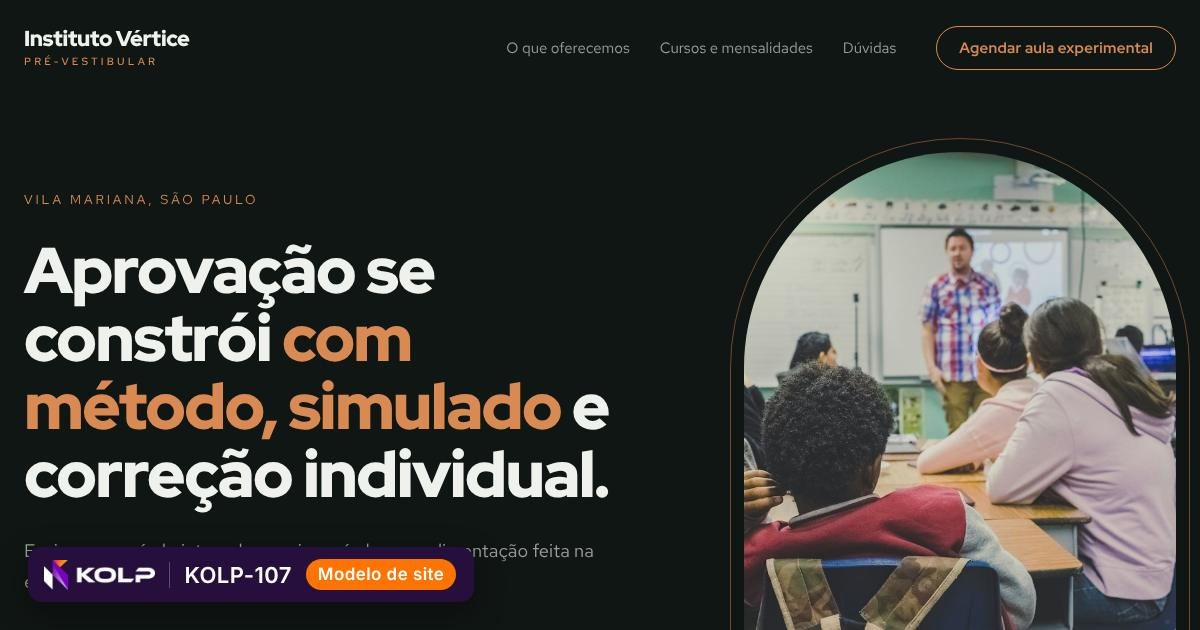
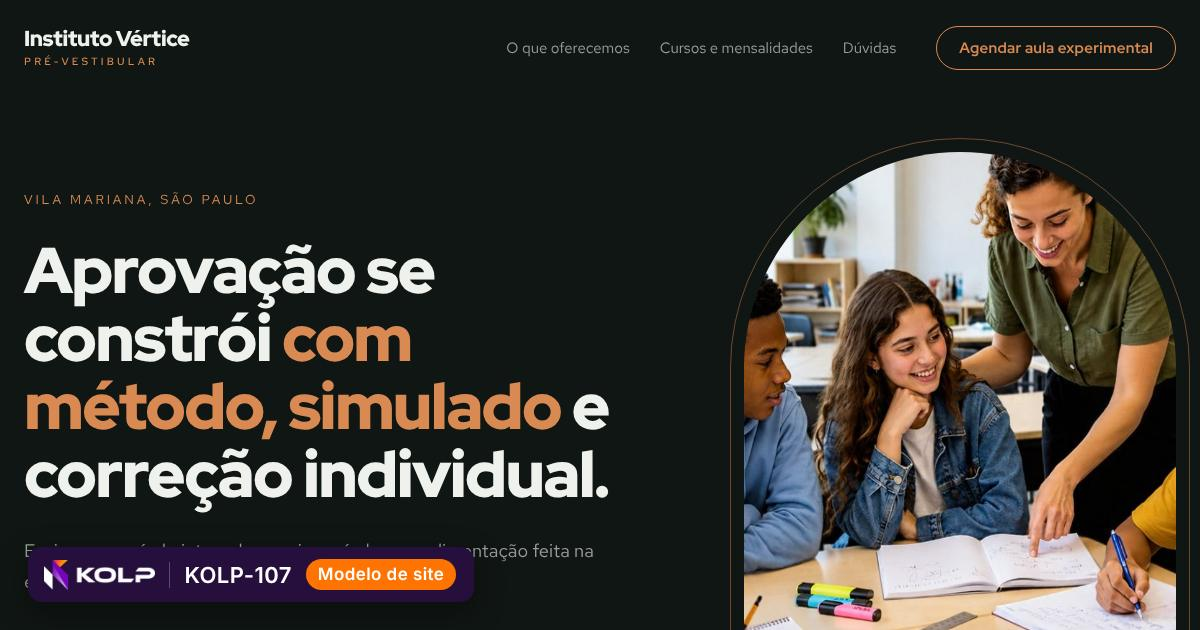
Bring educacao to 10 photos
Claude-Session: https://claude.ai/code/session_0151Yi9K8yWSyYvoKWm1KgPz

Changed region(s): [[0.6167, 0.2413, 0.9867, 1.0]]

diff --git a/kolp-modelos/demo/educacao-07/index.html b/kolp-modelos/demo/educacao-07/index.html
@@ -35,7 +35,7 @@
       <p class="lide">Ensino em período integral ou meio período, com alimentação feita na escola e atividades de arte, esporte e música.</p>
       <div class="acoes"><a class="botao" href="#contato">Agendar aula experimental</a><a class="elo" href="#servicos">Ver cursos e mensalidades</a></div>
     </div>
-    <figure class="arco"><img src="../../fotos/educacao/1.jpg" alt="" width="1400" height="930"><figcaption>Desde 2006</figcaption></figure>
+    <figure class="arco"><img src="../../fotos/educacao/7.jpg" alt="" width="1400" height="930"><figcaption>Desde 2006</figcaption></figure>
   </div>
   <div class="largura"><dl class="indices"><div><dd>18</dd><dt>anos de escola</dt></div><div><dd>84%</dd><dt>de aprovação em universidades públicas ou com bolsa</dt></div><div><dd>18</dd><dt>alunos por turma, no máximo</dt></div><div><dd>640</dd><dt>alunos matriculados</dt></div></dl></div>
   </section>
@@ -43,7 +43,7 @@
     <header class="topo rev"><h2>O que oferecemos</h2><p>Da educação infantil à preparação para o vestibular.</p></header>
     <ol class="cartoes"><li class="rev"><h3>Educação infantil</h3><p>De 2 a 5 anos, com projetos, brincadeira dirigida e adaptação acompanhada.</p></li><li class="rev"><h3>Ensino fundamental</h3><p>Do 1º ao 9º ano, com inglês diário e iniciação científica.</p></li><li class="rev"><h3>Ensino médio</h3><p>Itinerários formativos, simulados mensais e orientação profissional.</p></li><li class="rev"><h3>Período integral</h3><p>Almoço, lição de casa acompanhada, esportes e oficinas.</p></li><li class="rev"><h3>Idiomas</h3><p>Inglês e espanhol em turmas por nível, com certificação internacional.</p></li><li class="rev"><h3>Reforço e plantão</h3><p>Aulas de apoio em português, matemática e redação.</p></li></ol>
   </div></section>
-  <section class="faixa rev"><img src="../../fotos/educacao/2.jpg" alt="" width="1400" height="930" loading="lazy"><p>“Aprender exige tempo, repetição e alguém que perceba onde você travou”</p></section>
+  <section class="faixa rev"><img src="../../fotos/educacao/8.jpg" alt="" width="1400" height="930" loading="lazy"><p>“Aprender exige tempo, repetição e alguém que perceba onde você travou”</p></section>
   <section class="precos" id="precos"><div class="largura precos-grade">
     <div class="precos-lado rev"><h2>Cursos e mensalidades</h2><p>Doze parcelas anuais. Irmãos têm 10% de desconto.</p><a class="botao" href="#contato">Agendar aula experimental</a></div>
     <div class="rev"><details open><summary>Escola regular</summary><ul><li><div><b>Educação infantil</b><span>Meio período</span></div><strong>R$ 1.480</strong></li><li><div><b>Fundamental I</b><span>1º ao 5º ano</span></div><strong>R$ 1.890</strong></li><li><div><b>Fundamental II</b><span>6º ao 9º ano</span></div><strong>R$ 2.240</strong></li><li><div><b>Ensino médio</b><span>Com simulados e plantão</span></div><strong>R$ 2.690</strong></li></ul></details><details><summary>Complementares</summary><ul><li><div><b>Período integral</b><span>Com almoço e oficinas</span></div><strong>+ R$ 980</strong></li><li><div><b>Inglês intensivo</b><span>3 aulas por semana</span></div><strong>R$ 420</strong></li><li><div><b>Robótica</b><span>1 aula por semana</span></div><strong>R$ 260</strong></li></ul></details><details><summary>Cursos livres</summary><ul><li><div><b>Pré-vestibular</b><span>Extensivo noturno</span></div><strong>R$ 890</strong></li><li><div><b>Redação</b><span>Correção individual semanal</span></div><strong>R$ 340</strong></li><li><div><b>Reforço escolar</b><span>Pacote de 8 aulas</span></div><strong>R$ 560</strong></li></ul></details></div>

diff --git a/kolp-modelos/demo/educacao-08/index.html b/kolp-modelos/demo/educacao-08/index.html
@@ -34,17 +34,17 @@
     <p class="lide">No último ano, 84% dos nossos alunos foram aprovados em universidades públicas ou com bolsa.</p>
     <div class="acoes"><a class="botao" href="#contato">Agendar aula experimental</a><a class="elo" href="#servicos">Ver cursos e mensalidades</a></div>
     <div class="mosaico">
-      <img class="m1" src="../../fotos/educacao/3.jpg" alt="" width="1400" height="930">
-      <img class="m2" src="../../fotos/educacao/2.jpg" alt="" width="1400" height="930">
-      <img class="m3" src="../../fotos/educacao/4.jpg" alt="" width="1400" height="930">
+      <img class="m1" src="../../fotos/educacao/9.jpg" alt="" width="1400" height="930">
+      <img class="m2" src="../../fotos/educacao/8.jpg" alt="" width="1400" height="930">
+      <img class="m3" src="../../fotos/educacao/10.jpg" alt="" width="1400" height="930">
       <p class="selo"><b>18</b>anos de escola</p>
     </div>
   </div></section>
   <section class="pontos"><ul class="largura"><li class="rev">Turmas de até 18 alunos</li><li class="rev">Plantão de dúvidas todos os dias</li><li class="rev">Aula experimental gratuita</li></ul></section>
   <section class="servicos" id="servicos"><div class="largura">
     <header class="topo rev"><h2>O que oferecemos</h2><p>Da educação infantil à preparação para o vestibular.</p></header>
-    <div class="par rev"><img src="../../fotos/educacao/5.jpg" alt="" width="1400" height="930" loading="lazy"><ul><li><h3>Educação infantil</h3><p>De 2 a 5 anos, com projetos, brincadeira dirigida e adaptação acompanhada.</p></li><li><h3>Ensino fundamental</h3><p>Do 1º ao 9º ano, com inglês diário e iniciação científica.</p></li><li><h3>Ensino médio</h3><p>Itinerários formativos, simulados mensais e orientação profissional.</p></li></ul></div>
-    <div class="par par-inv rev"><img src="../../fotos/educacao/6.jpg" alt="" width="1400" height="930" loading="lazy"><ul><li><h3>Período integral</h3><p>Almoço, lição de casa acompanhada, esportes e oficinas.</p></li><li><h3>Idiomas</h3><p>Inglês e espanhol em turmas por nível, com certificação internacional.</p></li><li><h3>Reforço e plantão</h3><p>Aulas de apoio em português, matemática e redação.</p></li></ul></div>
+    <div class="par rev"><img src="../../fotos/educacao/1.jpg" alt="" width="1400" height="930" loading="lazy"><ul><li><h3>Educação infantil</h3><p>De 2 a 5 anos, com projetos, brincadeira dirigida e adaptação acompanhada.</p></li><li><h3>Ensino fundamental</h3><p>Do 1º ao 9º ano, com inglês diário e iniciação científica.</p></li><li><h3>Ensino médio</h3><p>Itinerários formativos, simulados mensais e orientação profissional.</p></li></ul></div>
+    <div class="par par-inv rev"><img src="../../fotos/educacao/2.jpg" alt="" width="1400" height="930" loading="lazy"><ul><li><h3>Período integral</h3><p>Almoço, lição de casa acompanhada, esportes e oficinas.</p></li><li><h3>Idiomas</h3><p>Inglês e espanhol em turmas por nível, com certificação internacional.</p></li><li><h3>Reforço e plantão</h3><p>Aulas de apoio em português, matemática e redação.</p></li></ul></div>
   </div></section>
   <section class="precos" id="precos"><div class="largura">
     <header class="topo rev"><h2>Cursos e mensalidades</h2><p>Doze parcelas anuais. Irmãos têm 10% de desconto.</p></header>

diff --git a/kolp-modelos/demo/educacao-10/index.html b/kolp-modelos/demo/educacao-10/index.html
@@ -30,7 +30,7 @@
 <div class="conteudo">
 <main>
   <section class="abertura">
-    <img src="../../fotos/educacao/4.jpg" alt="" width="1400" height="930">
+    <img src="../../fotos/educacao/10.jpg" alt="" width="1400" height="930">
     <div class="legenda"><p class="rotulo">Desde 2006 · Vila Mariana, São Paulo</p><h1>Aulas particulares para quem precisa recuperar a confiança.</h1></div>
   </section>
   <section class="sobre" id="sobre">
@@ -41,7 +41,7 @@
     <header class="topo"><h2>O que oferecemos</h2><p>Da educação infantil à preparação para o vestibular.</p></header>
     <ul class="servicos"><li><h3>Educação infantil</h3><p>De 2 a 5 anos, com projetos, brincadeira dirigida e adaptação acompanhada.</p></li><li><h3>Ensino fundamental</h3><p>Do 1º ao 9º ano, com inglês diário e iniciação científica.</p></li><li><h3>Ensino médio</h3><p>Itinerários formativos, simulados mensais e orientação profissional.</p></li><li><h3>Período integral</h3><p>Almoço, lição de casa acompanhada, esportes e oficinas.</p></li><li><h3>Idiomas</h3><p>Inglês e espanhol em turmas por nível, com certificação internacional.</p></li><li><h3>Reforço e plantão</h3><p>Aulas de apoio em português, matemática e redação.</p></li></ul>
   </section>
-  <figure class="citacao"><img src="../../fotos/educacao/5.jpg" alt="" width="1400" height="930" loading="lazy"><blockquote>“Aprender exige tempo, repetição e alguém que perceba onde você travou”</blockquote></figure>
+  <figure class="citacao"><img src="../../fotos/educacao/1.jpg" alt="" width="1400" height="930" loading="lazy"><blockquote>“Aprender exige tempo, repetição e alguém que perceba onde você travou”</blockquote></figure>
   <section id="equipe">
     <header class="topo"><h2>Direção e coordenação</h2><p>Educadores com formação em pedagogia e mais de quinze anos de sala de aula.</p></header>
     <div class="equipe"><article><img src="../../fotos/retratos/f5.jpg" alt="Retrato de Profa. Helena Duarte" width="560" height="680" loading="lazy"><div><h3>Profa. Helena Duarte</h3><p class="cargo">Diretora pedagógica</p><p>Pedagoga e mestre em Educação pela USP. Fundadora da escola.</p></div></article><article><img src="../../fotos/retratos/m5.jpg" alt="Retrato de Prof. Maurício Reis" width="560" height="680" loading="lazy"><div><h3>Prof. Maurício Reis</h3><p class="cargo">Coordenador do ensino médio</p><p>Professor de matemática há vinte anos e autor de material didático.</p></div></article><article><img src="../../fotos/retratos/f6.jpg" alt="Retrato de Profa. Sandra Lins" width="560" height="680" loading="lazy"><div><h3>Profa. Sandra Lins</h3><p class="cargo">Coordenadora da educação infantil</p><p>Especialista em alfabetização e desenvolvimento infantil.</p></div></article></div>

diff --git a/kolp-modelos/demo/educacao-09/index.html b/kolp-modelos/demo/educacao-09/index.html
@@ -30,7 +30,7 @@
 </div></header>
 <main>
   <section class="abertura">
-    <img src="../../fotos/educacao/3.jpg" alt="" width="1400" height="930">
+    <img src="../../fotos/educacao/9.jpg" alt="" width="1400" height="930">
     <div class="abertura-bloco"><div>
       <p class="rotulo">Vila Mariana, São Paulo</p>
       <h1>Laboratórios de verdade para quem aprende com as mãos.</h1>
@@ -51,7 +51,7 @@
     <header class="topo"><h2>Cursos e mensalidades</h2><p>Doze parcelas anuais. Irmãos têm 10% de desconto.</p></header>
     <div class="tabela-rolagem"><table><tbody><tr class="grupo"><th colspan="3">Escola regular</th></tr><tr><th>Educação infantil</th><td>Meio período</td><td>R$ 1.480</td></tr><tr><th>Fundamental I</th><td>1º ao 5º ano</td><td>R$ 1.890</td></tr><tr><th>Fundamental II</th><td>6º ao 9º ano</td><td>R$ 2.240</td></tr><tr><th>Ensino médio</th><td>Com simulados e plantão</td><td>R$ 2.690</td></tr></tbody><tbody><tr class="grupo"><th colspan="3">Complementares</th></tr><tr><th>Período integral</th><td>Com almoço e oficinas</td><td>+ R$ 980</td></tr><tr><th>Inglês intensivo</th><td>3 aulas por semana</td><td>R$ 420</td></tr><tr><th>Robótica</th><td>1 aula por semana</td><td>R$ 260</td></tr></tbody><tbody><tr class="grupo"><th colspan="3">Cursos livres</th></tr><tr><th>Pré-vestibular</th><td>Extensivo noturno</td><td>R$ 890</td></tr><tr><th>Redação</th><td>Correção individual semanal</td><td>R$ 340</td></tr><tr><th>Reforço escolar</th><td>Pacote de 8 aulas</td><td>R$ 560</td></tr></tbody></table></div>
   </div></section>
-  <section class="prova"><img src="../../fotos/educacao/4.jpg" alt="" width="1400" height="930" loading="lazy">
+  <section class="prova"><img src="../../fotos/educacao/10.jpg" alt="" width="1400" height="930" loading="lazy">
     <blockquote><p>“Meu filho chegou no sexto ano dizendo que era ruim em matemática. No nono, deu aula de reforço para os colegas. A diferença foi um professor que percebeu onde ele tinha parado.”</p><footer><b>Adriana Pacheco</b> mãe de aluno do ensino médio</footer></blockquote>
   </section>
   <section class="contato" id="contato"><div class="largura contato-grade">

diff --git a/kolp-modelos/demo/educacao-06/index.html b/kolp-modelos/demo/educacao-06/index.html
@@ -44,7 +44,7 @@
     <div><p class="frase rev">Aprender exige tempo, repetição e alguém que perceba onde você travou</p>
       <ol class="etapas"><li class="rev"><span>Etapa 1</span><h3>Visita</h3><p>Você conhece a escola funcionando, em dia de aula.</p></li><li class="rev"><span>Etapa 2</span><h3>Aula experimental</h3><p>O aluno passa uma manhã com a turma, sem compromisso.</p></li><li class="rev"><span>Etapa 3</span><h3>Conversa pedagógica</h3><p>A coordenação apresenta o plano do ano e ouve a família.</p></li><li class="rev"><span>Etapa 4</span><h3>Matrícula</h3><p>Documentos e contrato resolvidos em uma única visita.</p></li></ol></div>
   </div></section>
-  <figure class="faixa-foto rev"><img src="../../fotos/educacao/1.jpg" alt="" width="1400" height="930" loading="lazy"></figure>
+  <figure class="faixa-foto rev"><img src="../../fotos/educacao/7.jpg" alt="" width="1400" height="930" loading="lazy"></figure>
   <section class="casos" id="resultados"><div class="largura bloco">
     <h2 class="rotulo">03 — Resultados</h2>
     <div><article class="rev"><p class="resultado">18<small>anos de escola</small></p><div><h3>Continuidade</h3><p>Metade dos alunos do ensino médio está conosco desde o fundamental.</p></div></article><article class="rev"><p class="resultado">84%<small>de aprovação em universidades públicas ou com bolsa</small></p><div><h3>Resultado</h3><p>Aprovações na USP, Unicamp, Unesp e nas federais, todos os anos.</p></div></article><article class="rev"><p class="resultado">18<small>alunos por turma, no máximo</small></p><div><h3>Atenção</h3><p>Cada turma tem um tutor que acompanha os alunos individualmente.</p></div></article></div>

diff --git a/kolp-modelos/demo/educacao-05/index.html b/kolp-modelos/demo/educacao-05/index.html
@@ -52,7 +52,7 @@
       <a class="botao botao-grande" href="https://wa.me/5511999999999?text=Ol%C3%A1!%20Vim%20pelo%20site.">Agendar aula experimental</a></div>
   </div></section>
   <section class="loja" id="local">
-    <img class="loja-fundo" src="../../fotos/educacao/1.jpg" alt="" width="1400" height="930" loading="lazy">
+    <img class="loja-fundo" src="../../fotos/educacao/7.jpg" alt="" width="1400" height="930" loading="lazy">
     <div class="largura loja-grade"><div class="cartao">
       <h2>Venha conhecer a escola em dia de aula</h2>
       <p class="endereco">Rua Domingos de Morais, 2.100 — Vila Mariana, São Paulo</p>
